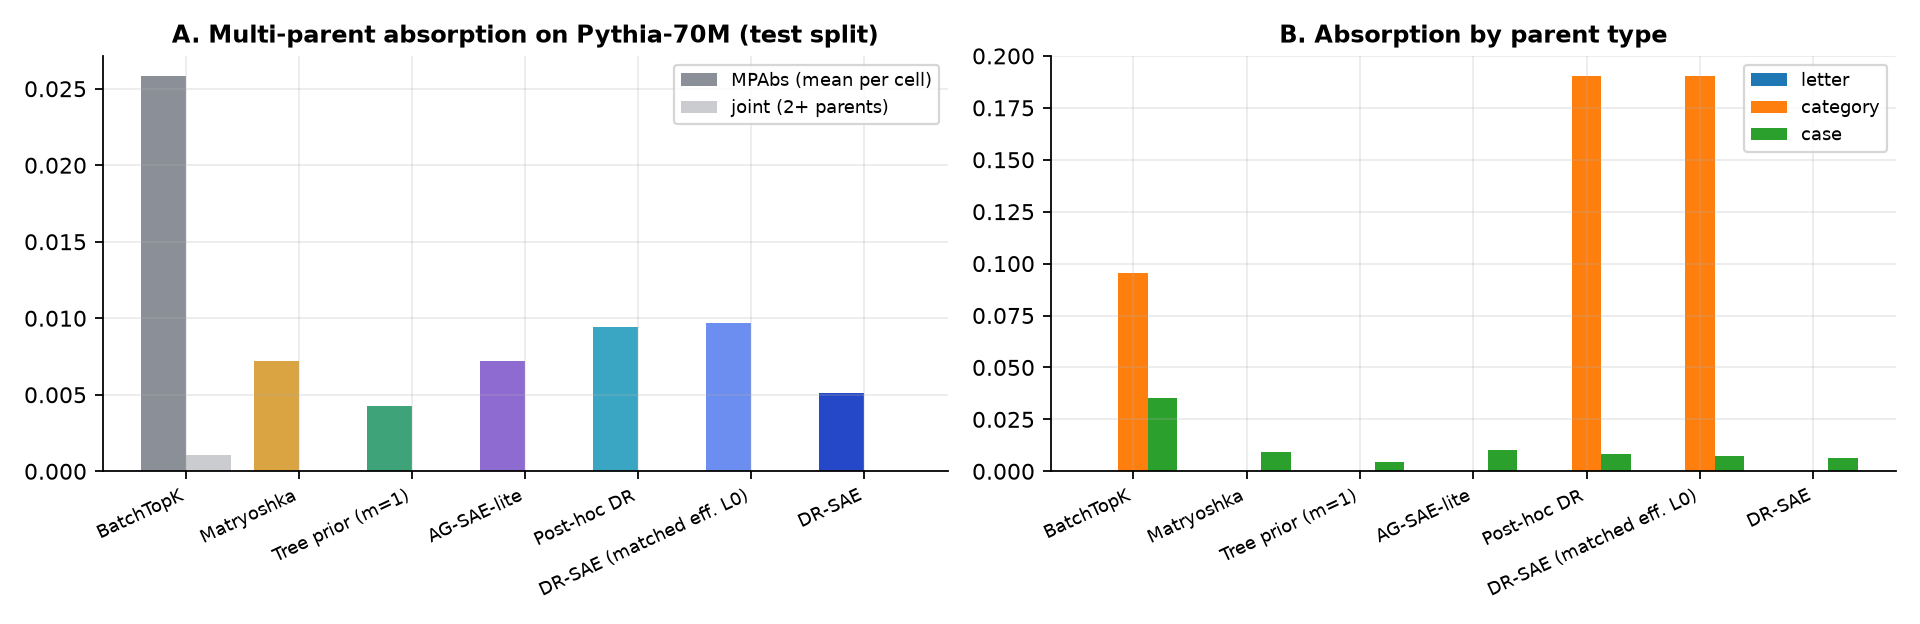
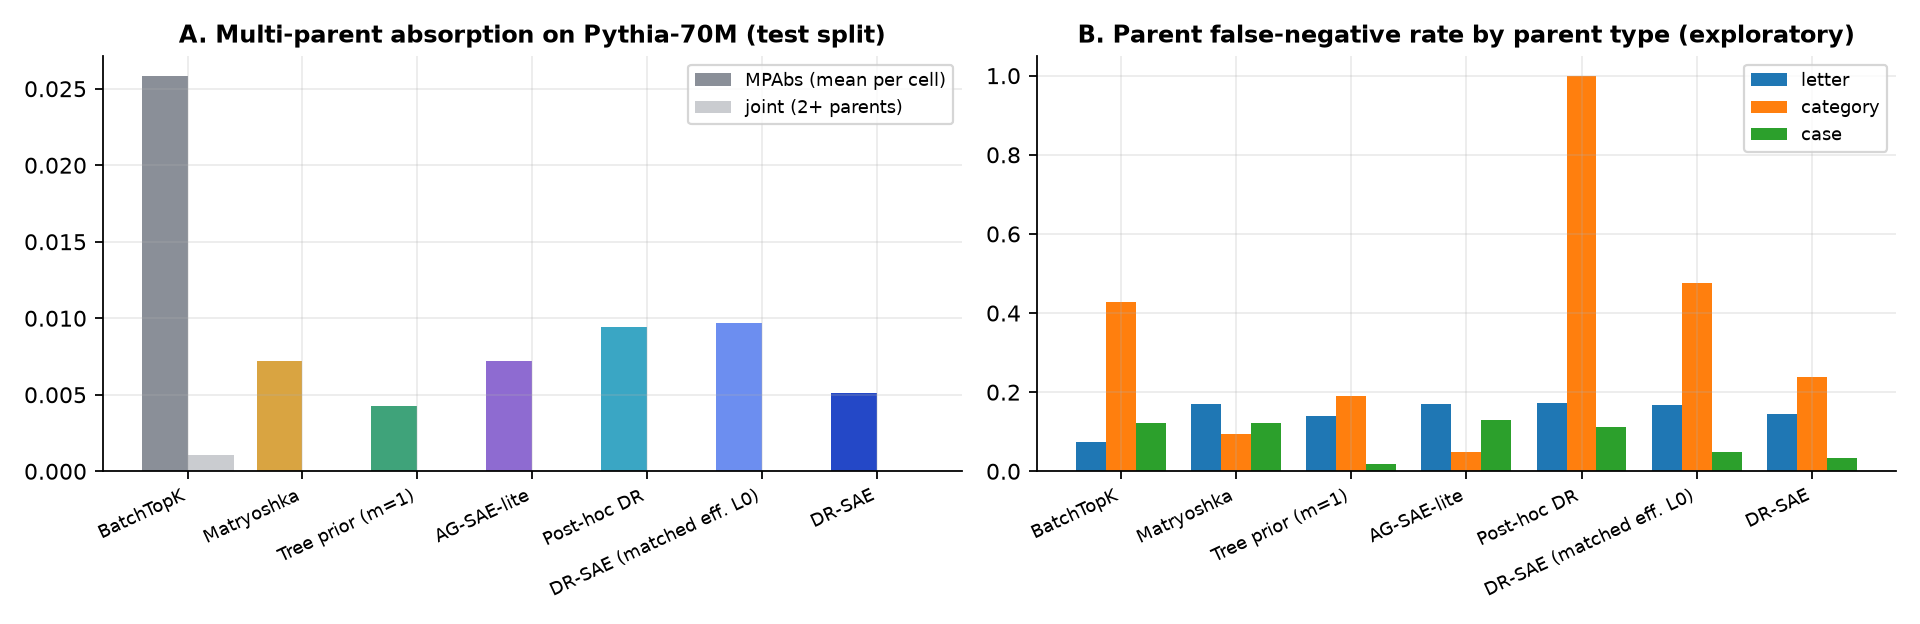
Show parent false negatives in figure 3B instead of near-zero absorption
Strict absorption is below 3% for every method, so the per-parent panel was
empty. The panel now plots how often each parent's latent is silent where its
probe fires, labelled exploratory.

diff --git a/scripts/make_figures.py b/scripts/make_figures.py
@@ -129,9 +129,9 @@ def fig_mpabs(lm):
     axes[0].set_title("A. Multi-parent absorption on Pythia-70M (test split)")
     axes[0].legend(fontsize=8)
     for i, slot in enumerate(["letter", "category", "case"]):
-        axes[1].bar(x + (i - 1) * 0.26, [mr[m]["per_parent"][slot] for m in ms], 0.26, label=slot)
+        axes[1].bar(x + (i - 1) * 0.26, [mr[m]["parent_false_negative"][slot] for m in ms], 0.26, label=slot)
     axes[1].set_xticks(x, ms, rotation=25, ha="right", fontsize=8)
-    axes[1].set_title("B. Absorption by parent type")
+    axes[1].set_title("B. Parent false-negative rate by parent type (exploratory)")
     axes[1].legend(fontsize=8)
     fig.tight_layout()
     fig.savefig(os.path.join(OUT, "fig3_mpabs_by_method.png"))
